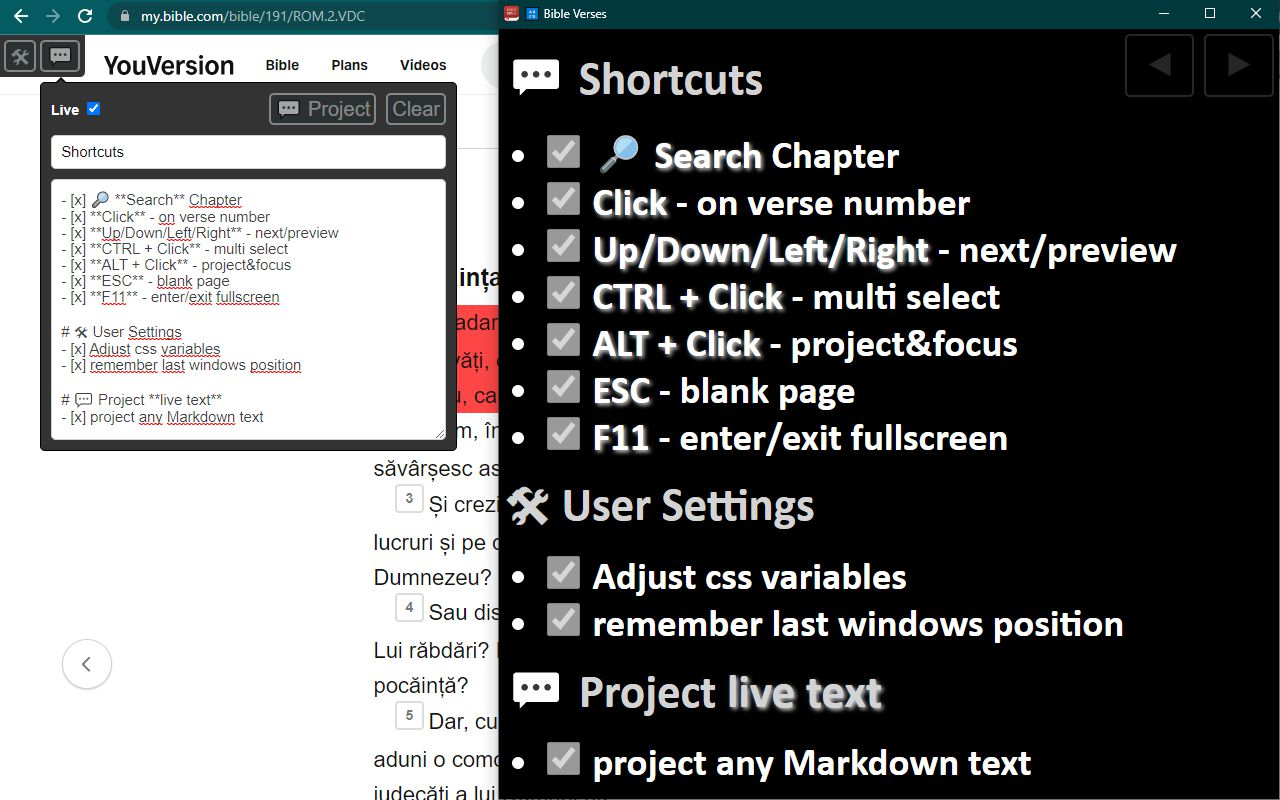
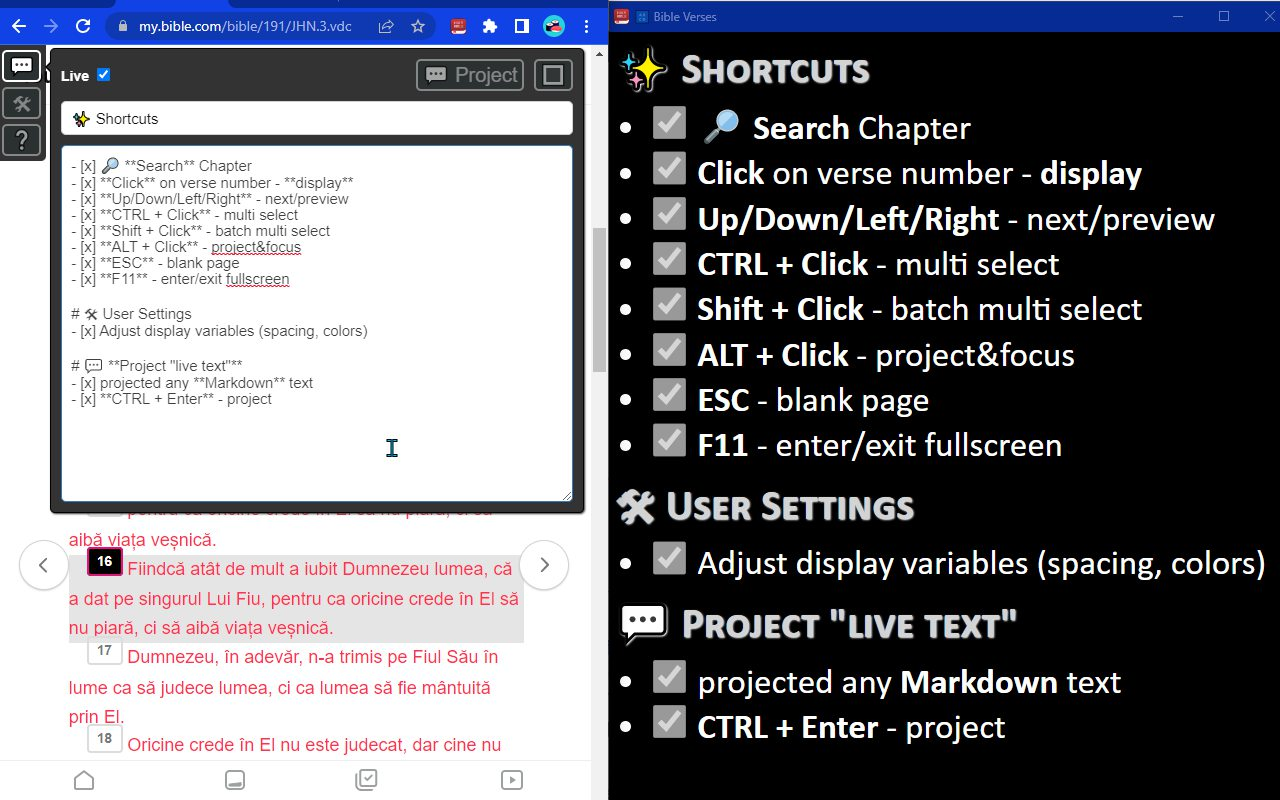
update escreens

diff --git a/screens/README.md b/screens/README.md
@@ -1,0 +1,16 @@
+# ✨ Shortcuts
+- [x] 🔎 **Search** Chapter
+- [x] **Click** on verse number - **display**
+- [x] **Up/Down/Left/Right** - next/preview
+- [x] **CTRL + Click** - multi select
+- [x] **Shift + Click** - batch multi select
+- [x] **ALT + Click** - project&focus
+- [x] **ESC** - blank page
+- [x] **F11** - enter/exit fullscreen
+
+# 🛠 User Settings
+- [x] Adjust display variables (spacing, colors)
+
+# 💬 **Project "live text"**
+- [x] projected any **Markdown** text
+- [x] **CTRL + Enter** - project
